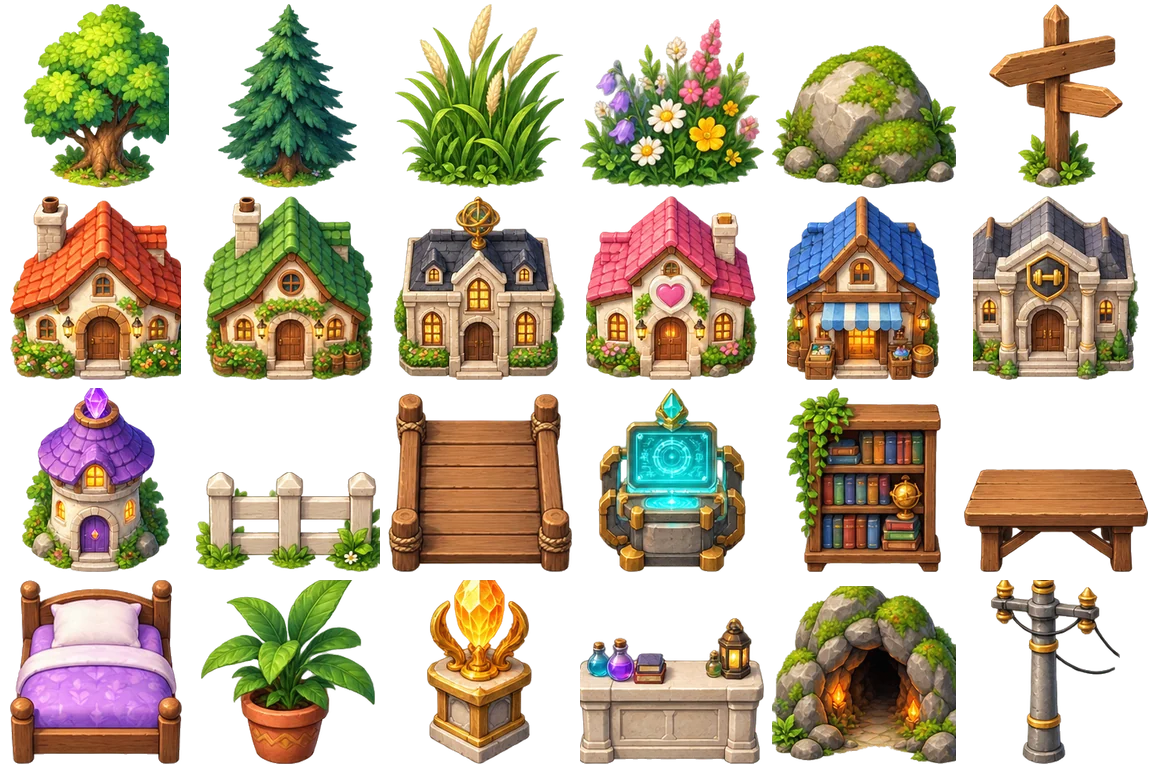
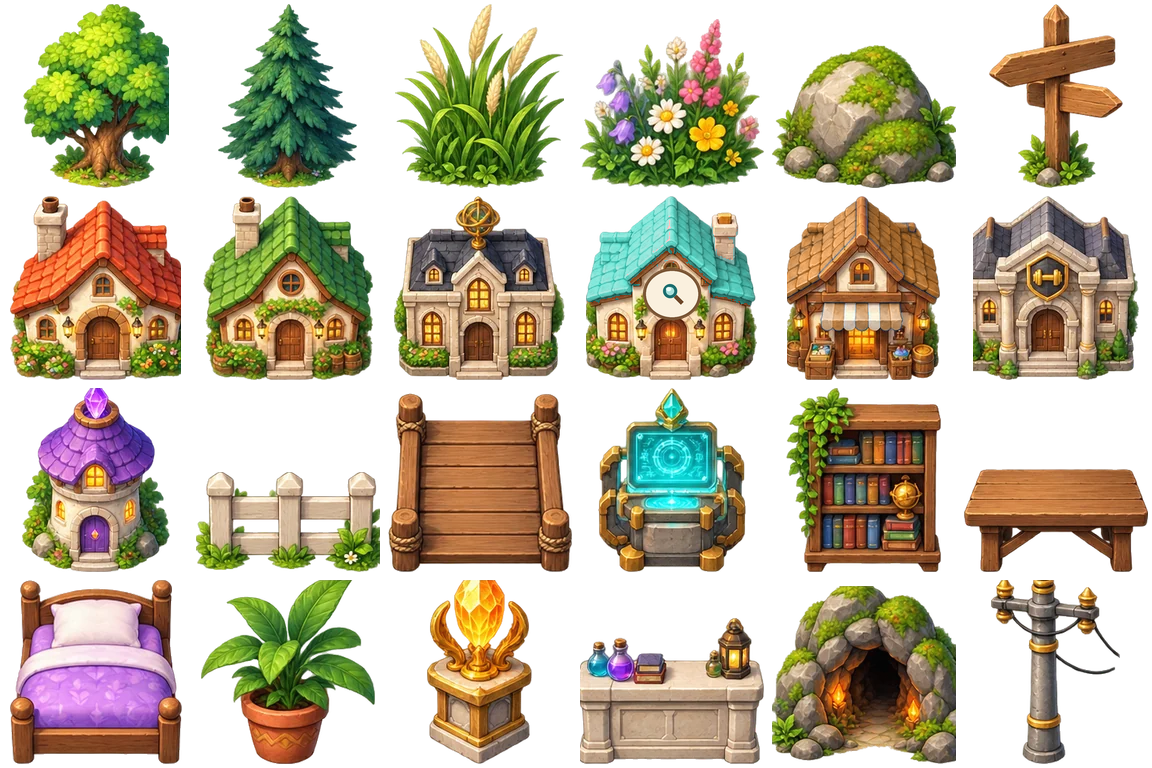
관측 캠프·보급소 건물 색과 문양 변경, 화산길 관측 구역 바닥 수정
Claude-Session: https://claude.ai/code/session_01EvJtuj9T63MYBhzhu6s7i5

Changed region(s): [[0.5, 0.25, 0.8125, 0.4375], [0.6875, 0.375, 0.7812, 0.4375]]

diff --git a/tools/recolor-buildings.py b/tools/recolor-buildings.py
@@ -1,0 +1,62 @@
+# 관측 캠프(분홍 지붕 + 하트 장식)·보급소(파란 지붕·차양) 그림이 원작 회복 시설·상점을 연상시켜 색과 문양을 바꾼다.
+#   python3 tools/recolor-buildings.py   (godot/assets/props.webp의 9·10번 칸을 고침, 한 번만 실행)
+import colorsys, os, sys
+from PIL import Image, ImageDraw
+
+ROOT = os.path.join(os.path.dirname(__file__), '..')
+PATH = os.path.join(ROOT, 'godot/assets/props.webp')
+CELL = 192
+
+
+def shift(im, box, keep, new_hue, y_max, sat_mul=1.0, val_mul=1.0, min_sat=0.28):
+    """box 안에서 hue가 keep(hue)에 맞는 채도 있는 픽셀의 색상을 new_hue로 옮긴다 (y_max 위쪽만)."""
+    px = im.load()
+    x0, y0, x1, y1 = box
+    for y in range(y0, min(y1, y0 + y_max)):
+        for x in range(x0, x1):
+            r, g, b, a = px[x, y]
+            if a < 10:
+                continue
+            h, s, v = colorsys.rgb_to_hsv(r / 255, g / 255, b / 255)
+            if s < min_sat or not keep(h * 360):
+                continue
+            r2, g2, b2 = colorsys.hsv_to_rgb(new_hue / 360, min(1, s * sat_mul), min(1, v * val_mul))
+            px[x, y] = (int(r2 * 255), int(g2 * 255), int(b2 * 255), a)
+
+
+def lens_badge(im, cx, cy):
+    """하트 자리에 관측 렌즈(돋보기) 문양: 크림색 바탕 위 청록 렌즈 + 손잡이"""
+    S = 4
+    w = 64
+    layer = Image.new('RGBA', (w * S, w * S), (0, 0, 0, 0))
+    d = ImageDraw.Draw(layer)
+    c = w * S // 2
+    # 하트 모양 판자를 통째로 덮는 둥근 판
+    d.ellipse((c - 29 * S, c - 26 * S, c + 29 * S, c + 26 * S), fill=(120, 84, 52, 255))
+    d.ellipse((c - 26 * S, c - 23 * S, c + 26 * S, c + 23 * S), fill=(250, 240, 222, 255))
+    d.ellipse((c - 9 * S, c - 10 * S, c + 5 * S, c + 4 * S), outline=(28, 110, 110, 255), width=3 * S, fill=(170, 225, 220, 255))
+    d.line((c + 3 * S, c + 2 * S, c + 10 * S, c + 9 * S), fill=(110, 70, 40, 255), width=4 * S)
+    d.ellipse((c - 6 * S, c - 7 * S, c - 1 * S, c - 3 * S), fill=(235, 255, 250, 255))
+    small = layer.resize((w, w), Image.LANCZOS)
+    im.alpha_composite(small, (cx - w // 2, cy - w // 2))
+
+
+def main():
+    im = Image.open(PATH).convert('RGBA')
+    camp = (3 * CELL, 1 * CELL, 4 * CELL, 2 * CELL)   # 9번 칸
+    mart = (4 * CELL, 1 * CELL, 5 * CELL, 2 * CELL)   # 10번 칸
+    px = im.load()
+    r, g, b, _ = px[camp[0] + 96, camp[1] + 30]
+    if g > r:   # 이미 청록 지붕
+        sys.exit('이미 적용됨')
+    # 하트 장식 → 렌즈 문양 (분홍을 옮기기 전에 덮는다)
+    lens_badge(im, camp[0] + 96, camp[1] + 102)
+    # 분홍 지붕 → 청록 (아래쪽 화단 꽃은 그대로)
+    shift(im, camp, lambda h: h >= 300 or h <= 20, 172, 118, 0.85, 0.92)
+    # 파란 지붕·차양 → 호박색
+    shift(im, mart, lambda h: 185 <= h <= 255, 30, 150, 0.95, 1.0, 0.06)
+    im.save(PATH, 'WEBP', lossless=True)
+    print('ok', os.path.getsize(PATH))
+
+
+main()

diff --git a/docs/WIP_FIELD_REWORK.md b/docs/WIP_FIELD_REWORK.md
@@ -19,8 +19,9 @@
 - [x] 5 world.gd `_name_plate`
 - [x] 6 auto.gd `fight_on`, game.gd `autoStart`, battle.gd 시작 시 초기화, 설정 메뉴
 - [x] 7 project.godot `window/size/resizable.windows=false`
-- [ ] 회귀 테스트(tests/regression.tscn), new_survey 테스트 실행 → 실패 수정
-- [ ] 웹 내보내기로 화면 확인(관측 구역·이름판·원정가 대화)
+- [x] 회귀·new_survey 테스트: CI run 38113124629 build 통과 (fc44553)
+- [x] 웹 내보내기로 화면 확인(관측 구역·이름판·원정가 대화) — 화산길·건물 색은 재확인 필요
 - [ ] docs/SIMILARITY_AUDIT_2026-10-11.md에 2차 수정 기록, store/README.md 문구 확인
-- [ ] (검토) 관측 캠프 지붕 하트·보급소 파란 지붕 그림이 원작 건물을 연상 → 색 변경 여부
+- [x] 관측 캠프 지붕 청록+렌즈 문양, 보급소 호박색 (tools/recolor-buildings.py 실행 완료, 다시 실행 금지)
+- [x] 화산길 관측 구역 바닥이 용암(14)으로 나오던 것 → 15(모래)+회색
 - [ ] PR → CI → 머지 → 릴리스 링크(APK/AAB/MSIX/zip) 전달
